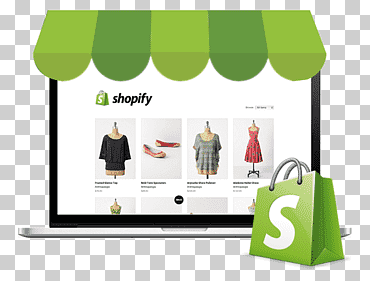
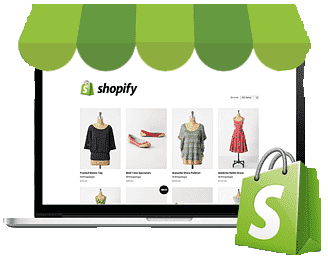
Ajuste da imagem central

diff --git a/style.css b/style.css
@@ -10,7 +10,7 @@ body {
     background-image: url(./assets/wave.png);
     background-position: 50% 0%;
     background-repeat: no-repeat;
-    background-size: 170%;
+    background-size: 145%;
 }
 
 /*ajuste logo*/
@@ -18,7 +18,8 @@ body {
     display: flex;
     align-items: center;
     justify-content: center;
-    margin-top: 3vh;
+    margin-top: 5vh;
+    font-family: 'Segoe UI', Tahoma, Geneva, Verdana, sans-serif;
 }
 #cabecalho .logo {
     height: 5vh;
@@ -44,11 +45,6 @@ body {
     align-items: center;
     margin-top: 3vh;
 }
-#inputButtonP p {
-    text-align: center;
-    width: 40vw;
-    font-size: 12px;
-}
 #inputButtonP .inputBu {
     display: flex;
     justify-content: space-evenly;
@@ -57,8 +53,21 @@ body {
 #inputButtonP .inputBu input{
     height: 5.3vh;
     width: 25vw;
+    border-radius: 2px;
+    border-style: none;
 }
 #inputButtonP .inputBu button{
-    height: 6vh;
+    height: 5.6vh;
     width: 10vw;
+    background-color: black;
+    color: white;
+    border-style: none;
+    border-radius: 2px;
 }
+#inputButtonP p {
+    text-align: center;
+    width: 40vw;
+    font-size: 12px;
+    margin-top: 3vh;
+}
+/*Ajuste da imagem central*/

diff --git a/index.html b/index.html
@@ -28,12 +28,12 @@
                 </div>
                 <p>Try Shopify free for 14 days, no credit card required. By entering your email, you agree to receive marketing emails from Shopify.</p>
             </div>
-        <!--</section>
+        </section>
         <section>
             <div id="img">
                 <img src="./assets/shopifyStore.png" alt="Imagem de uma tela de notebook com imagem dos produtos da shopify">
             </div>
-        </section>-->
+        </section>
     </div>
 </body>
 </html>
